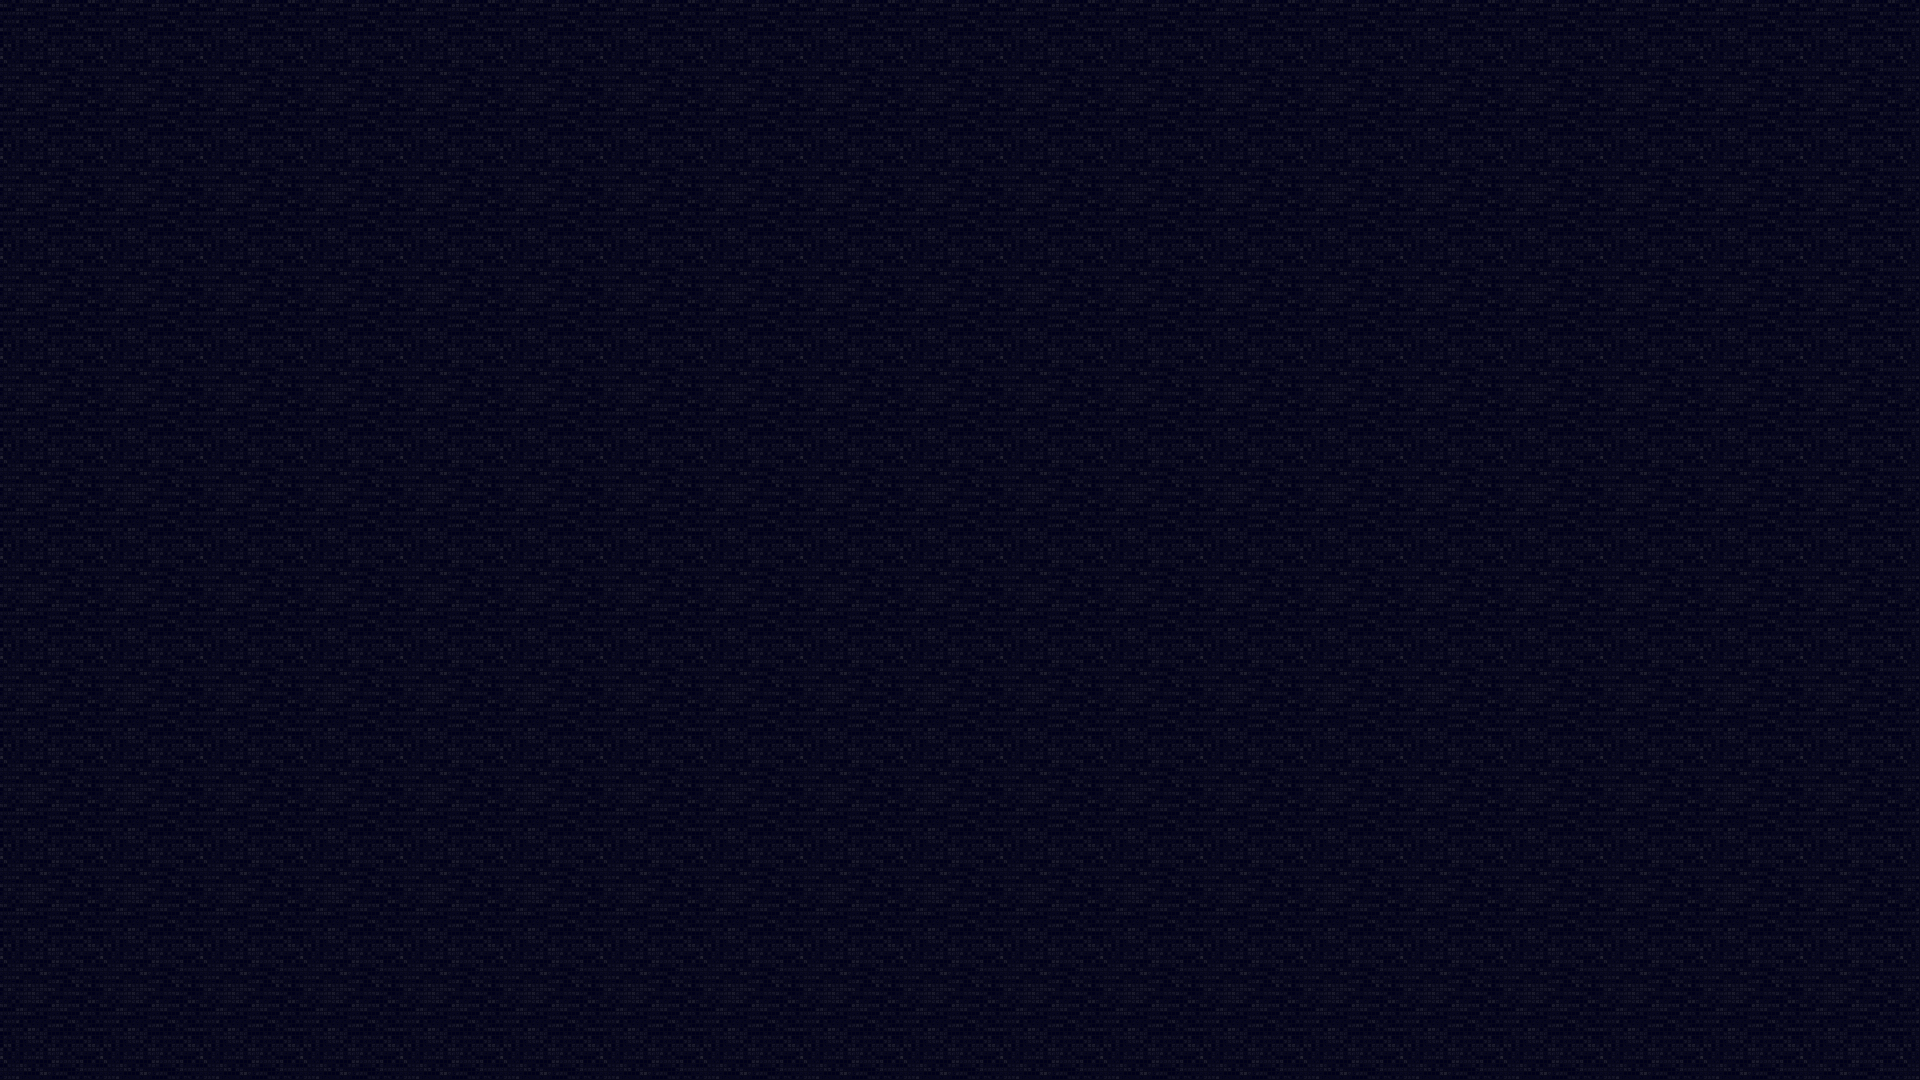
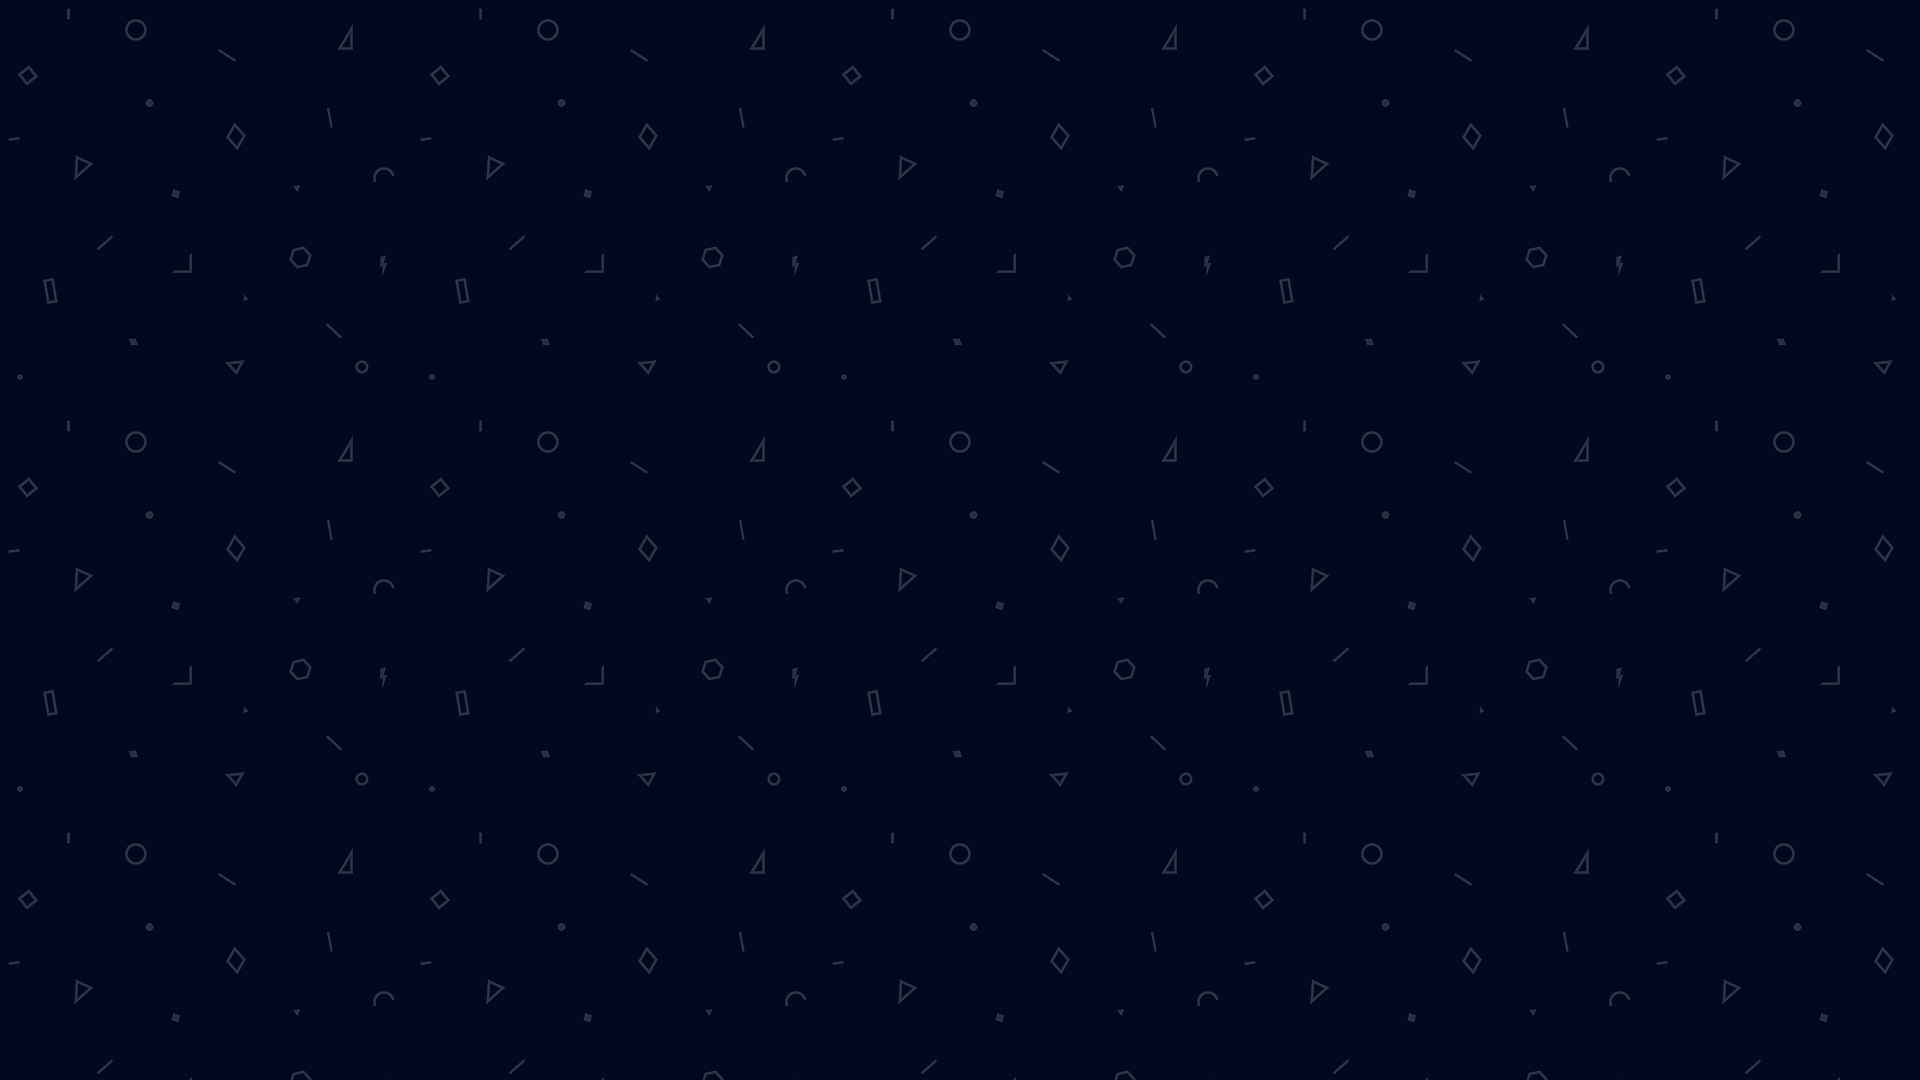
bg img finalised too

diff --git a/index.html b/index.html
@@ -14,7 +14,8 @@
     <style>
         #intro {
             background-image: url("./img/img0.png");
-            height: 105vh;
+            background-size: cover;
+            height: 108vh;
             }
             /* Height for devices larger than 576px */
         @media (min-width: 992px) {
@@ -30,7 +31,7 @@
     
     <!-- Landing Page -->
     <div id="intro" class="bg-image shadow-2-strong">
-        <div class="mask" style="background-color: rgba(0, 0, 0, 0.8);">
+        <div class="mask" style="background-image: url(./img/img0.png);">
             <div class="container d-flex align-items-center justify-content-center text-center h-100">
                 <div class="text-white">
                     <h1 class="mb-3">Note Taker Alpha</h1>
